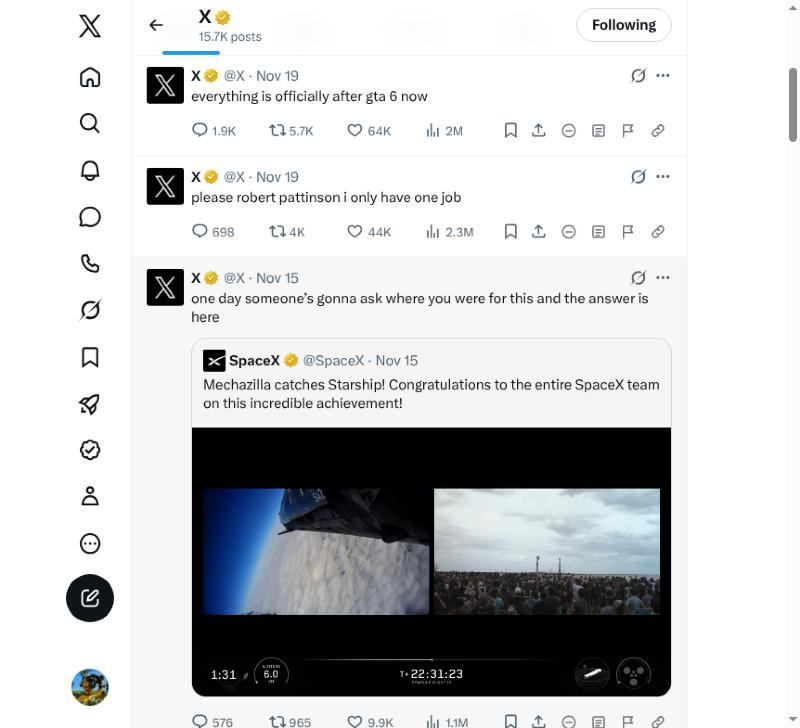
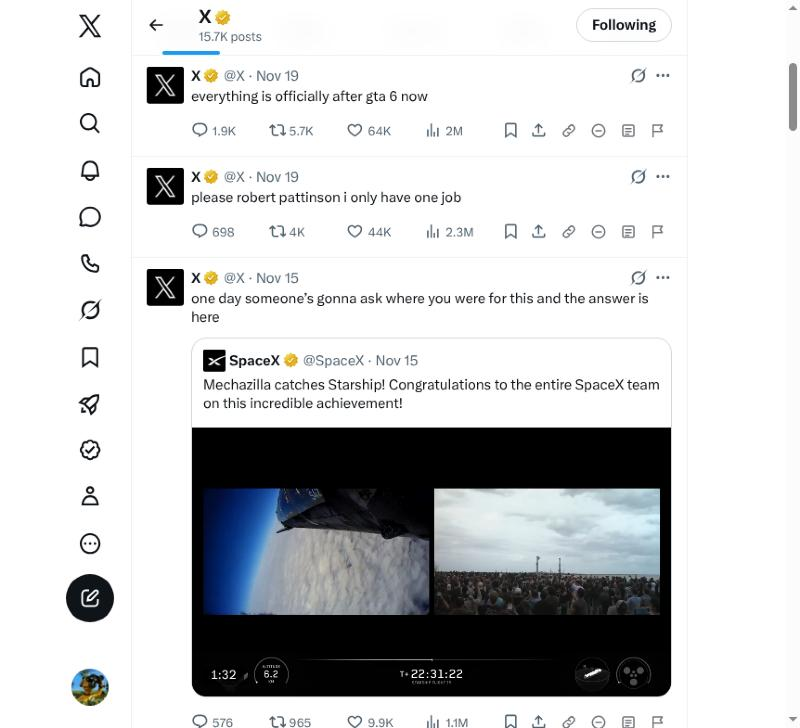
Reorder buttons: Copy link first, Report last
Copy link is the most-used of the four and sat at the far edge, directly
beside Report, the only one with real consequences. Now the order runs from
most-used and harmless to least-used and most serious:

  Copy link, Not interested, Community Note, Report

Report ends up at the far edge where a stray click is least likely, and Copy
link lands next to X's own share button, where X hides its own copy-link item.
The escalation ramp across the three menu-driven actions is unchanged.

Verified on a live timeline after the change: order correct on every post,
Copy link copies the right permalink via the execCommand path, Not interested
produces X's "Thanks." row, Community Note opens /i/communitynotes/noterequest
with the matching id, Report opens /i/safety/report_story_start. Linter still
reports 0 errors, 0 warnings, 0 notices.

Screenshot retaken to match the new order.

diff --git a/content.js b/content.js
@@ -105,7 +105,15 @@
     return ok;
   }
 
+  // Ordered by how often each is used and how much damage a misclick does:
+  // the most-clicked first, the only serious one at the far edge.
   const ACTIONS = [
+    {
+      cls: "",
+      title: "Copy link",
+      svg: ICONS.copy,
+      run: copyLink,
+    },
     {
       cls: "nib-red",
       title: "Not interested in this post",
@@ -123,12 +131,6 @@
       title: "Report post",
       svg: ICONS.report,
       run: (a, b) => viaCaretMenu(a, b, /report post/i),
-    },
-    {
-      cls: "",
-      title: "Copy link",
-      svg: ICONS.copy,
-      run: copyLink,
     },
   ];
 

diff --git a/docs/AMO_SUBMISSION.md b/docs/AMO_SUBMISSION.md
@@ -36,12 +36,14 @@ X buries its most useful per-post actions behind menus. "Not interested in this 
 
 Tweet Quick Actions adds four buttons to the action bar of every post, next to reply, repost and like:
 
+- Copy link
 - Not interested in this post
 - Request a Community Note
 - Report post
-- Copy link
 
-The first three click X's own menu items for you, so the signal reaches X exactly as if you had navigated the menu by hand. Nothing is hidden locally and nothing is faked.
+They are ordered from most-used and harmless to least-used and most serious, so Report sits at the far edge of the bar.
+
+The last three click X's own menu items for you, so the signal reaches X exactly as if you had navigated the menu by hand. Nothing is hidden locally and nothing is faked.
 
 Report and Request Community Note open X's own flows, which you complete yourself. Nothing is ever auto-submitted.
 
@@ -105,7 +107,7 @@ them click X's own existing menu items on the user's behalf:
   - "Request Community Note"        (X's ... menu)
   - "Report post"                   (X's ... menu)
 
-The fourth, "Copy link", reads the post's permalink from the page and copies it
+The remaining one, "Copy link", reads the post's permalink from the page and copies it
 to the clipboard without opening any menu. It takes the /user/status/id prefix
 from any of the post's own links, so it also works on posts that render no
 plain permalink.
@@ -121,15 +123,16 @@ visitors.
 
   1. Install and open https://x.com/home
   2. Four extra buttons appear at the end of each post's action bar, after
-     X's reply / repost / like / share buttons.
+     X's reply / repost / like / share buttons, in this order: chain,
+     circle-minus, note, flag.
   3. Click the chain icon (Copy link) - the icon briefly turns into a green
      tick and the post's URL is on the clipboard.
   4. Click the circle-minus icon (Not interested) - X replaces the post with
      its own "Thanks. X will use this to make your timeline better." row.
-  5. Click the flag icon (Report) - X's own report flow opens at
-     /i/safety/report_story_start. Nothing is submitted.
-  6. Click the note icon (Request a Community Note) - X's own note request
+  5. Click the note icon (Request a Community Note) - X's own note request
      page opens at /i/communitynotes/noterequest/<id>. Nothing is submitted.
+  6. Click the flag icon (Report) - X's own report flow opens at
+     /i/safety/report_story_start. Nothing is submitted.
 
 Implementation notes
 --------------------

diff --git a/README.md b/README.md
@@ -5,10 +5,13 @@ for actions X buries behind its menus:
 
 | Button | What it does | How |
 |---|---|---|
+| 🔗 Copy link | copies the tweet's permalink | reads the permalink directly |
 | ⊖ Not interested | "Not interested in this post" | drives X's ⋯ menu |
 | 🗒 Community Note | "Request Community Note" | drives X's ⋯ menu |
 | ⚑ Report | "Report post" | drives X's ⋯ menu |
-| 🔗 Copy link | copies the tweet's permalink | reads the permalink directly |
+
+They run left to right from most-used and harmless to least-used and most
+serious, so Report sits at the far edge where a stray click is least likely.
 
 The three menu-driven actions click X's own menu items, so the real signal
 reaches X — this is not local hiding. Report and Community Note navigate to
